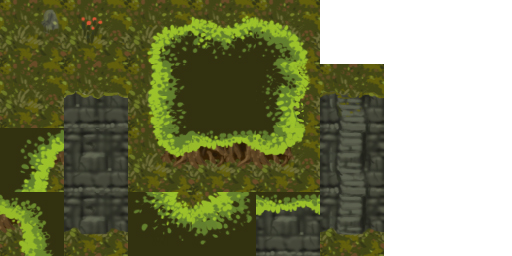
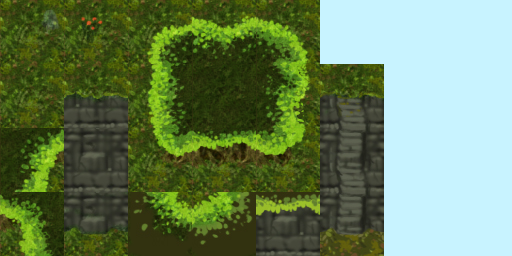
Fixed Z order a bit. Rats swawn again.

diff --git a/Squeeze/Squeeze/Squeeze/Entities/Creature.cs b/Squeeze/Squeeze/Squeeze/Entities/Creature.cs
@@ -49,11 +49,13 @@ namespace Squeeze.Entities
             get
             {
                 Vector3 v = m_creatureHead.Position;
-                foreach (var bodySegment in m_creatureBodies)
-                    v += bodySegment.Position;
-                v += m_creatureTail.Position;
+                return v;
 
-                return v / (m_creatureBodies.Count + 2);
+                //foreach (var bodySegment in m_creatureBodies)
+                //    v += bodySegment.Position;
+                //v += m_creatureTail.Position;
+
+                //return v / (m_creatureBodies.Count + 2);
             }
         }
 
@@ -108,6 +110,7 @@ namespace Squeeze.Entities
             foreach (var body in bodies)
             {
                 body.Position += startingOffset;
+                body.Mass = 32;
             }
 
             for (int i = 0; i < bodies.Count - 1; i++)
@@ -144,6 +147,7 @@ namespace Squeeze.Entities
             body.BodyType = BodyType.Dynamic;
             body.LinearDamping = 0.005f;
             body.CreateFixture(GetBodyShape());
+            body.Mass = 10;
 
             var newSegment = CreatureBodyFactory.CreateNew();
             newSegment.Body = body;

diff --git a/Squeeze/Squeeze/Squeeze/Entities/PreyGenerator.cs b/Squeeze/Squeeze/Squeeze/Entities/PreyGenerator.cs
@@ -37,8 +37,6 @@ namespace Squeeze.Entities
 
 		private void CustomActivity()
 		{
-            return;
-
             while (g_prey.Count < 10)
             {
                 var prey = PreyFactory.CreateNew();

diff --git a/Squeeze/Squeeze/Squeeze/Entities/TreeZero.cs b/Squeeze/Squeeze/Squeeze/Entities/TreeZero.cs
@@ -30,8 +30,7 @@ namespace Squeeze.Entities
 
 		private void CustomInitialize()
 		{
-
-
+            this.EntireScene.Shift(new Vector3(0, 0, 0.9f));
 		}
 
 		private void CustomActivity()

diff --git a/Squeeze/Squeeze/Squeeze/Entities/LevelOne.cs b/Squeeze/Squeeze/Squeeze/Entities/LevelOne.cs
@@ -27,8 +27,7 @@ namespace Squeeze.Entities
 	{
 		private void CustomInitialize()
 		{
-            
-
+            this.EntireScene.Shift(0, 0, -1);
 		}
 
 		private void CustomActivity()

diff --git a/Squeeze/Squeeze/Squeeze/Entities/TreeOne.cs b/Squeeze/Squeeze/Squeeze/Entities/TreeOne.cs
@@ -30,8 +30,7 @@ namespace Squeeze.Entities
 
 		private void CustomInitialize()
 		{
-
-
+            this.EntireScene.Shift(new Vector3(0, 0, 1));
 		}
 
 		private void CustomActivity()

diff --git a/Squeeze/Squeeze/Squeeze/Entities/Log.cs b/Squeeze/Squeeze/Squeeze/Entities/Log.cs
@@ -30,7 +30,7 @@ namespace Squeeze.Entities
 
 		private void CustomInitialize()
 		{
-
+            this.EntireScene.Shift(new Vector3(0,0,-1));
 
 		}
 
